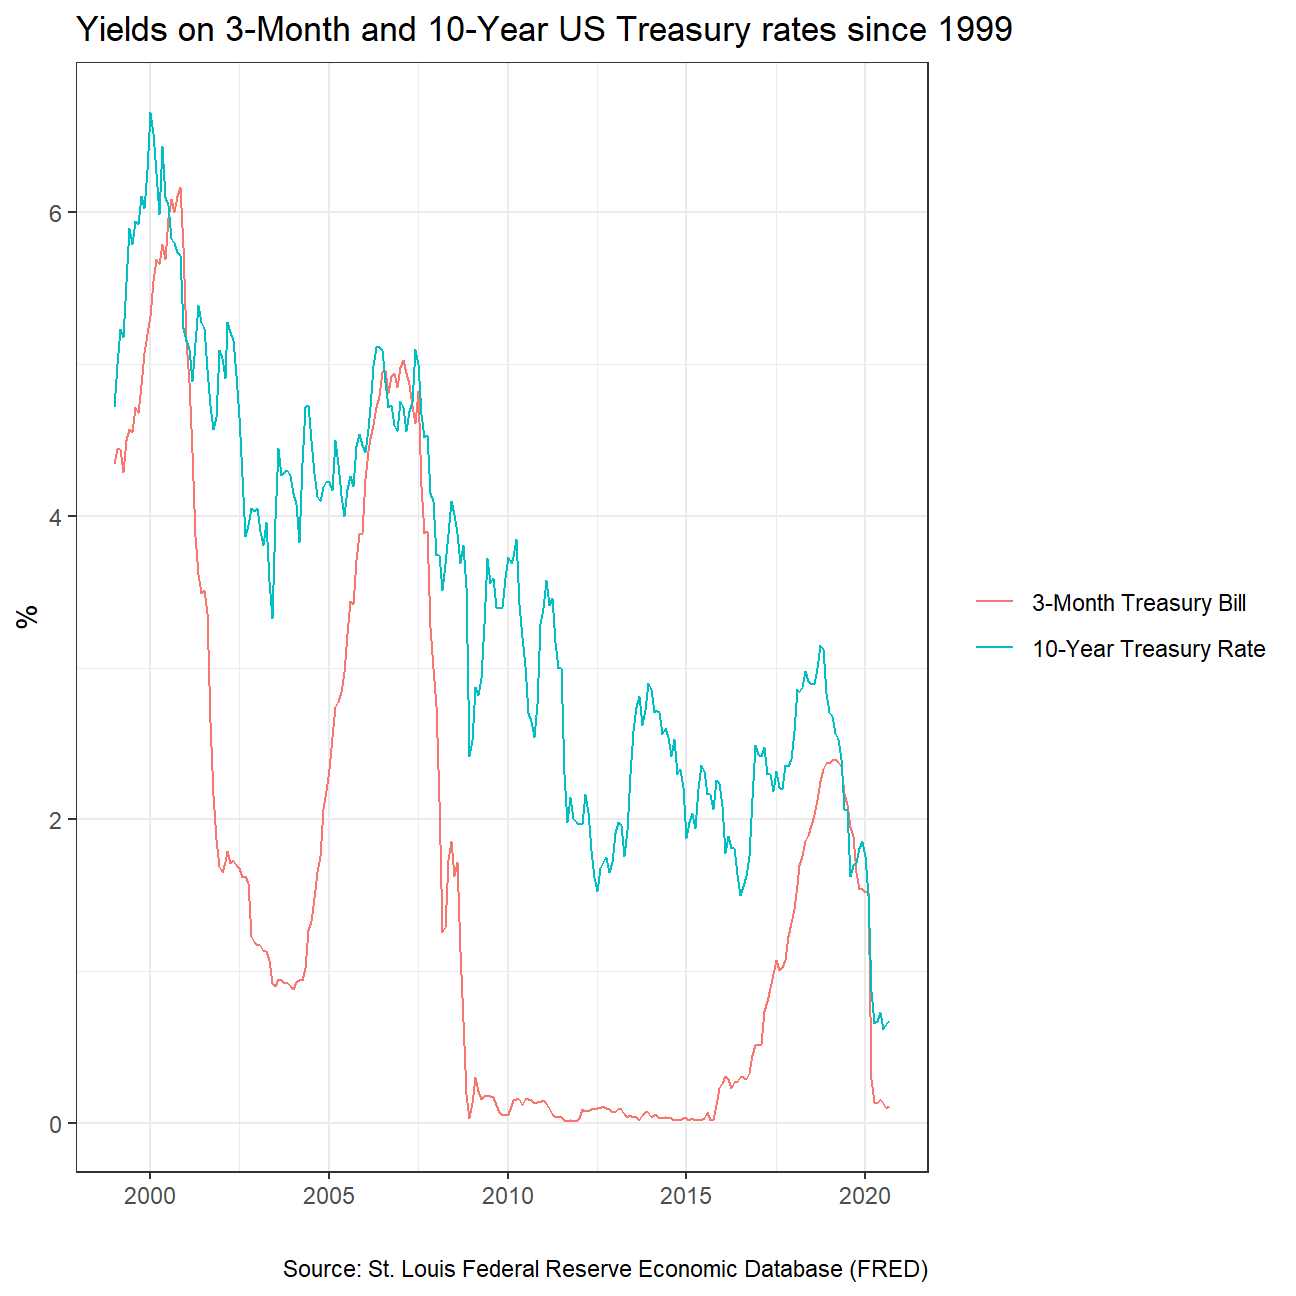
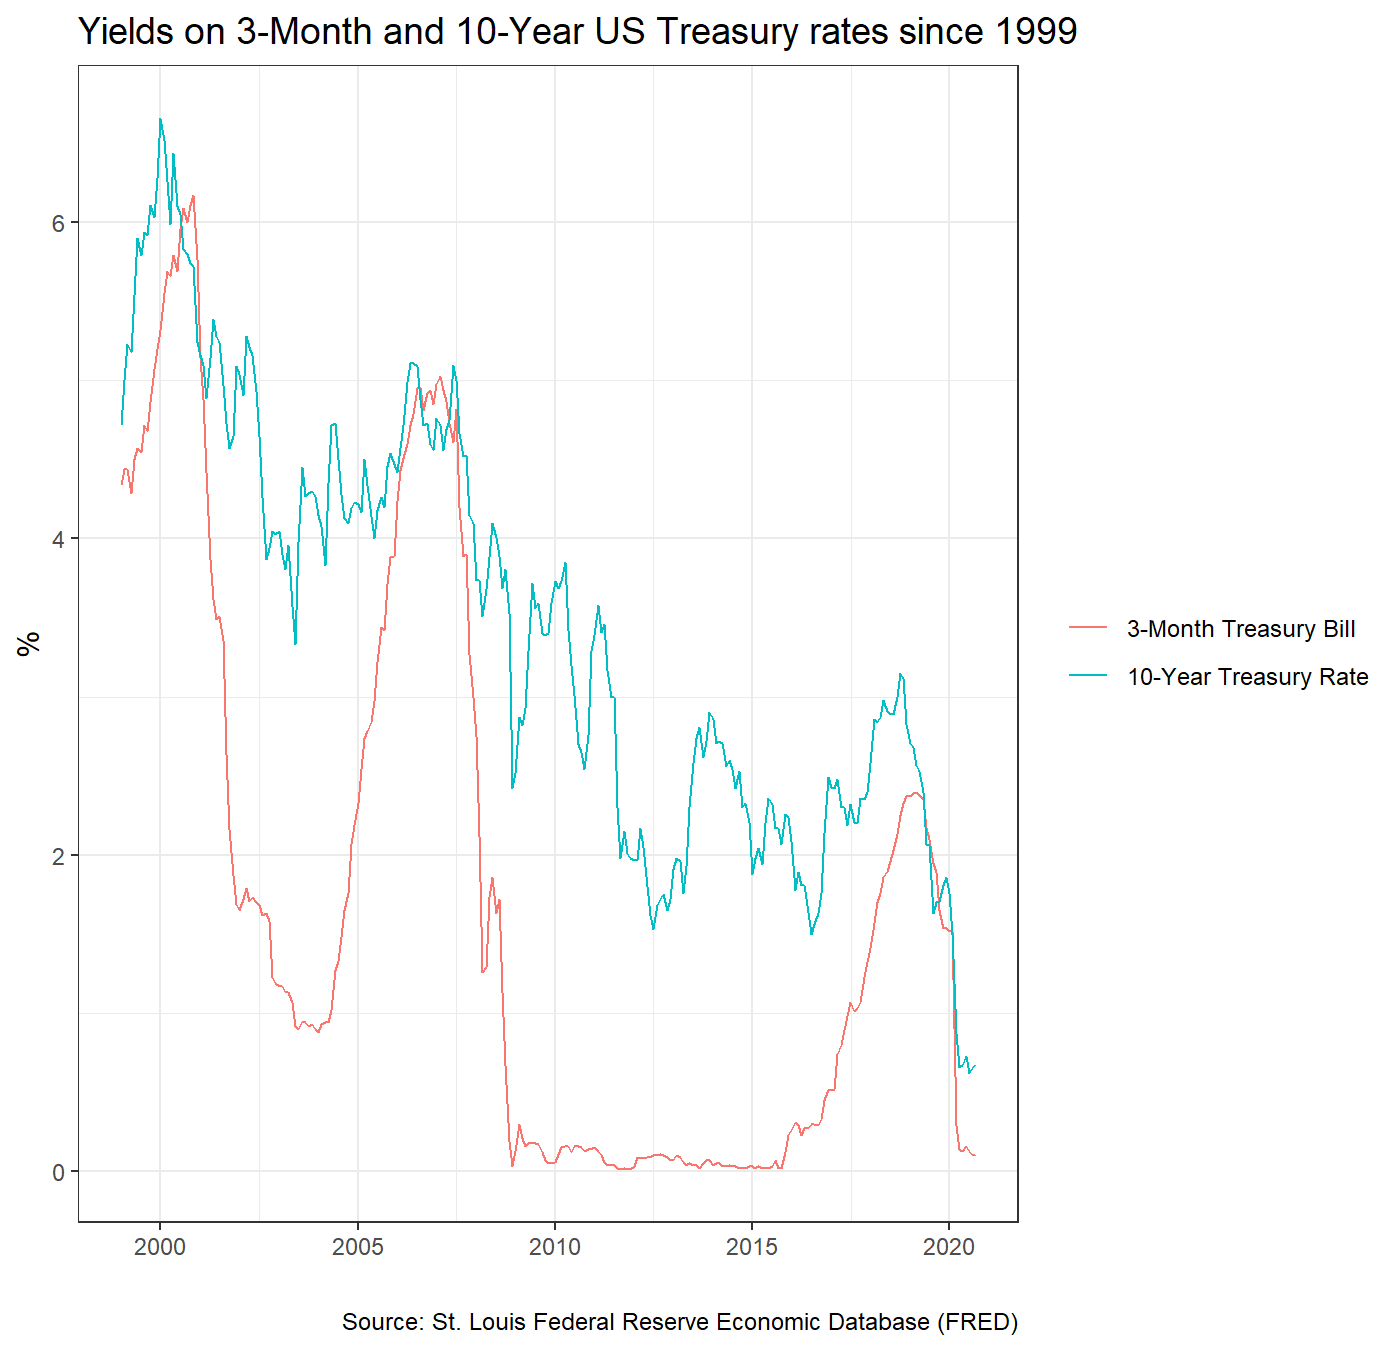
Project 3

diff --git a/public/portfolio/project-3/index.html b/public/portfolio/project-3/index.html
@@ -330,7 +330,7 @@ ggplot(yield_curve_99_spr, aes(x = date, y = price, group = var, colour = var)) 
        title = &quot;Yields on 3-Month and 10-Year US Treasury rates since 1999&quot;,
        caption = &quot;Source: St. Louis Federal Reserve Economic Database (FRED)&quot;) +
   theme(legend.title = element_blank())</code></pre>
-<p><img src="/portfolio/project-3_files/figure-html/unnamed-chunk-3-1.png" width="648" style="display: block; margin: auto;" /></p>
+<p><img src="/portfolio/project-3_files/figure-html/unnamed-chunk-3-1.png" width="700" style="display: block; margin: auto;" /></p>
 <p>According to <a href="https://en.wikipedia.org/wiki/List_of_recessions_in_the_United_States">Wikipedia’s list of recession in the United States</a>, since 1999 there have been two recession in the US: between Mar 2001–Nov 2001 and between Dec 2007–June 2009. Does the yield curve seem to flatten before these recessions? Can a yield curve flattening really mean a recession is coming in the US? Since 1999, when did short-term (3 months) yield more than longer term (10 years) debt?</p>
 <p>Besides calculating the spread (10year - 3months), there are a few things we need to do to produce our final plot</p>
 <ol style="list-style-type: decimal">
@@ -400,7 +400,7 @@ ggplot(yield_spread, aes(x = date, y = diff)) +
        title = &quot;Yield Curve Inversion: 10-year minus 3-month Treasury rates&quot;,
        subtitle = &quot;Difference in % points monthly averages.\nShaded areas correspond to recessions&quot;,
        caption = &quot;Source: St. Louis Federal Reserve Economic Database (FRED)&quot;)</code></pre>
-<p><img src="/portfolio/project-3_files/figure-html/unnamed-chunk-4-1.png" width="648" style="display: block; margin: auto;" /></p>
+<p><img src="/portfolio/project-3_files/figure-html/unnamed-chunk-4-1.png" width="700" style="display: block; margin: auto;" /></p>
 </div>
 </div>
       </div>

diff --git a/content/portfolio/project-3.html b/content/portfolio/project-3.html
@@ -196,7 +196,7 @@ ggplot(yield_curve_99_spr, aes(x = date, y = price, group = var, colour = var)) 
        title = &quot;Yields on 3-Month and 10-Year US Treasury rates since 1999&quot;,
        caption = &quot;Source: St. Louis Federal Reserve Economic Database (FRED)&quot;) +
   theme(legend.title = element_blank())</code></pre>
-<p><img src="/portfolio/project-3_files/figure-html/unnamed-chunk-3-1.png" width="648" style="display: block; margin: auto;" /></p>
+<p><img src="/portfolio/project-3_files/figure-html/unnamed-chunk-3-1.png" width="700" style="display: block; margin: auto;" /></p>
 <p>According to <a href="https://en.wikipedia.org/wiki/List_of_recessions_in_the_United_States">Wikipedia’s list of recession in the United States</a>, since 1999 there have been two recession in the US: between Mar 2001–Nov 2001 and between Dec 2007–June 2009. Does the yield curve seem to flatten before these recessions? Can a yield curve flattening really mean a recession is coming in the US? Since 1999, when did short-term (3 months) yield more than longer term (10 years) debt?</p>
 <p>Besides calculating the spread (10year - 3months), there are a few things we need to do to produce our final plot</p>
 <ol style="list-style-type: decimal">
@@ -266,5 +266,5 @@ ggplot(yield_spread, aes(x = date, y = diff)) +
        title = &quot;Yield Curve Inversion: 10-year minus 3-month Treasury rates&quot;,
        subtitle = &quot;Difference in % points monthly averages.\nShaded areas correspond to recessions&quot;,
        caption = &quot;Source: St. Louis Federal Reserve Economic Database (FRED)&quot;)</code></pre>
-<p><img src="/portfolio/project-3_files/figure-html/unnamed-chunk-4-1.png" width="648" style="display: block; margin: auto;" /></p>
+<p><img src="/portfolio/project-3_files/figure-html/unnamed-chunk-4-1.png" width="700" style="display: block; margin: auto;" /></p>
 </div>

diff --git a/public/portfolio/project-2/index.html b/public/portfolio/project-2/index.html
@@ -234,9 +234,9 @@ continent_data &lt;- gapminder %&gt;%
 <pre><code>## `geom_smooth()` using method = &#39;loess&#39; and formula &#39;y ~ x&#39;</code></pre>
 <p><img src="/portfolio/project-2_files/figure-html/lifeExp_facet_by_continent-1.png" width="672" /></p>
 <blockquote>
-<p>Analysis</p>
+<p>Conlcusion</p>
 </blockquote>
-<p>We generally can see an upward trend regarding life expectancy in all continents. However, several African countries suffered from a decrease since 1985, possibly due to unstable political environments and social unrest. There are two obvious outliers, an African country in 1992 and an Asia country in 1976, both of which had a sudden drop in the expected age, which I think can be caused by wars. European and Oceanian had high levels of life expectancy back in 1952, and they continued to live longer thanks to the improvement of technology (I guess).</p>
+<p>We generally can see an upward trend regarding life expectancy in all continents. However, several African countries suffered from a decrease since 1985, possibly due to unstable political environments and social unrest. There are two obvious outliers, an African country in 1992 and an Asia country in 1976, both of which had a sudden drop in the expected age, which I think can be caused by wars. European and Oceanian had high levels of life expectancy back in 1952, and they continued to live longer thanks to the improvement of technology.</p>
 </div>
       </div>
     </div>

diff --git a/content/portfolio/project-2.html b/content/portfolio/project-2.html
@@ -99,6 +99,6 @@ continent_data &lt;- gapminder %&gt;%
 <pre><code>## `geom_smooth()` using method = &#39;loess&#39; and formula &#39;y ~ x&#39;</code></pre>
 <p><img src="/portfolio/project-2_files/figure-html/lifeExp_facet_by_continent-1.png" width="672" /></p>
 <blockquote>
-<p>Analysis</p>
+<p>Conlcusion</p>
 </blockquote>
-<p>We generally can see an upward trend regarding life expectancy in all continents. However, several African countries suffered from a decrease since 1985, possibly due to unstable political environments and social unrest. There are two obvious outliers, an African country in 1992 and an Asia country in 1976, both of which had a sudden drop in the expected age, which I think can be caused by wars. European and Oceanian had high levels of life expectancy back in 1952, and they continued to live longer thanks to the improvement of technology (I guess).</p>
+<p>We generally can see an upward trend regarding life expectancy in all continents. However, several African countries suffered from a decrease since 1985, possibly due to unstable political environments and social unrest. There are two obvious outliers, an African country in 1992 and an Asia country in 1976, both of which had a sudden drop in the expected age, which I think can be caused by wars. European and Oceanian had high levels of life expectancy back in 1952, and they continued to live longer thanks to the improvement of technology.</p>
